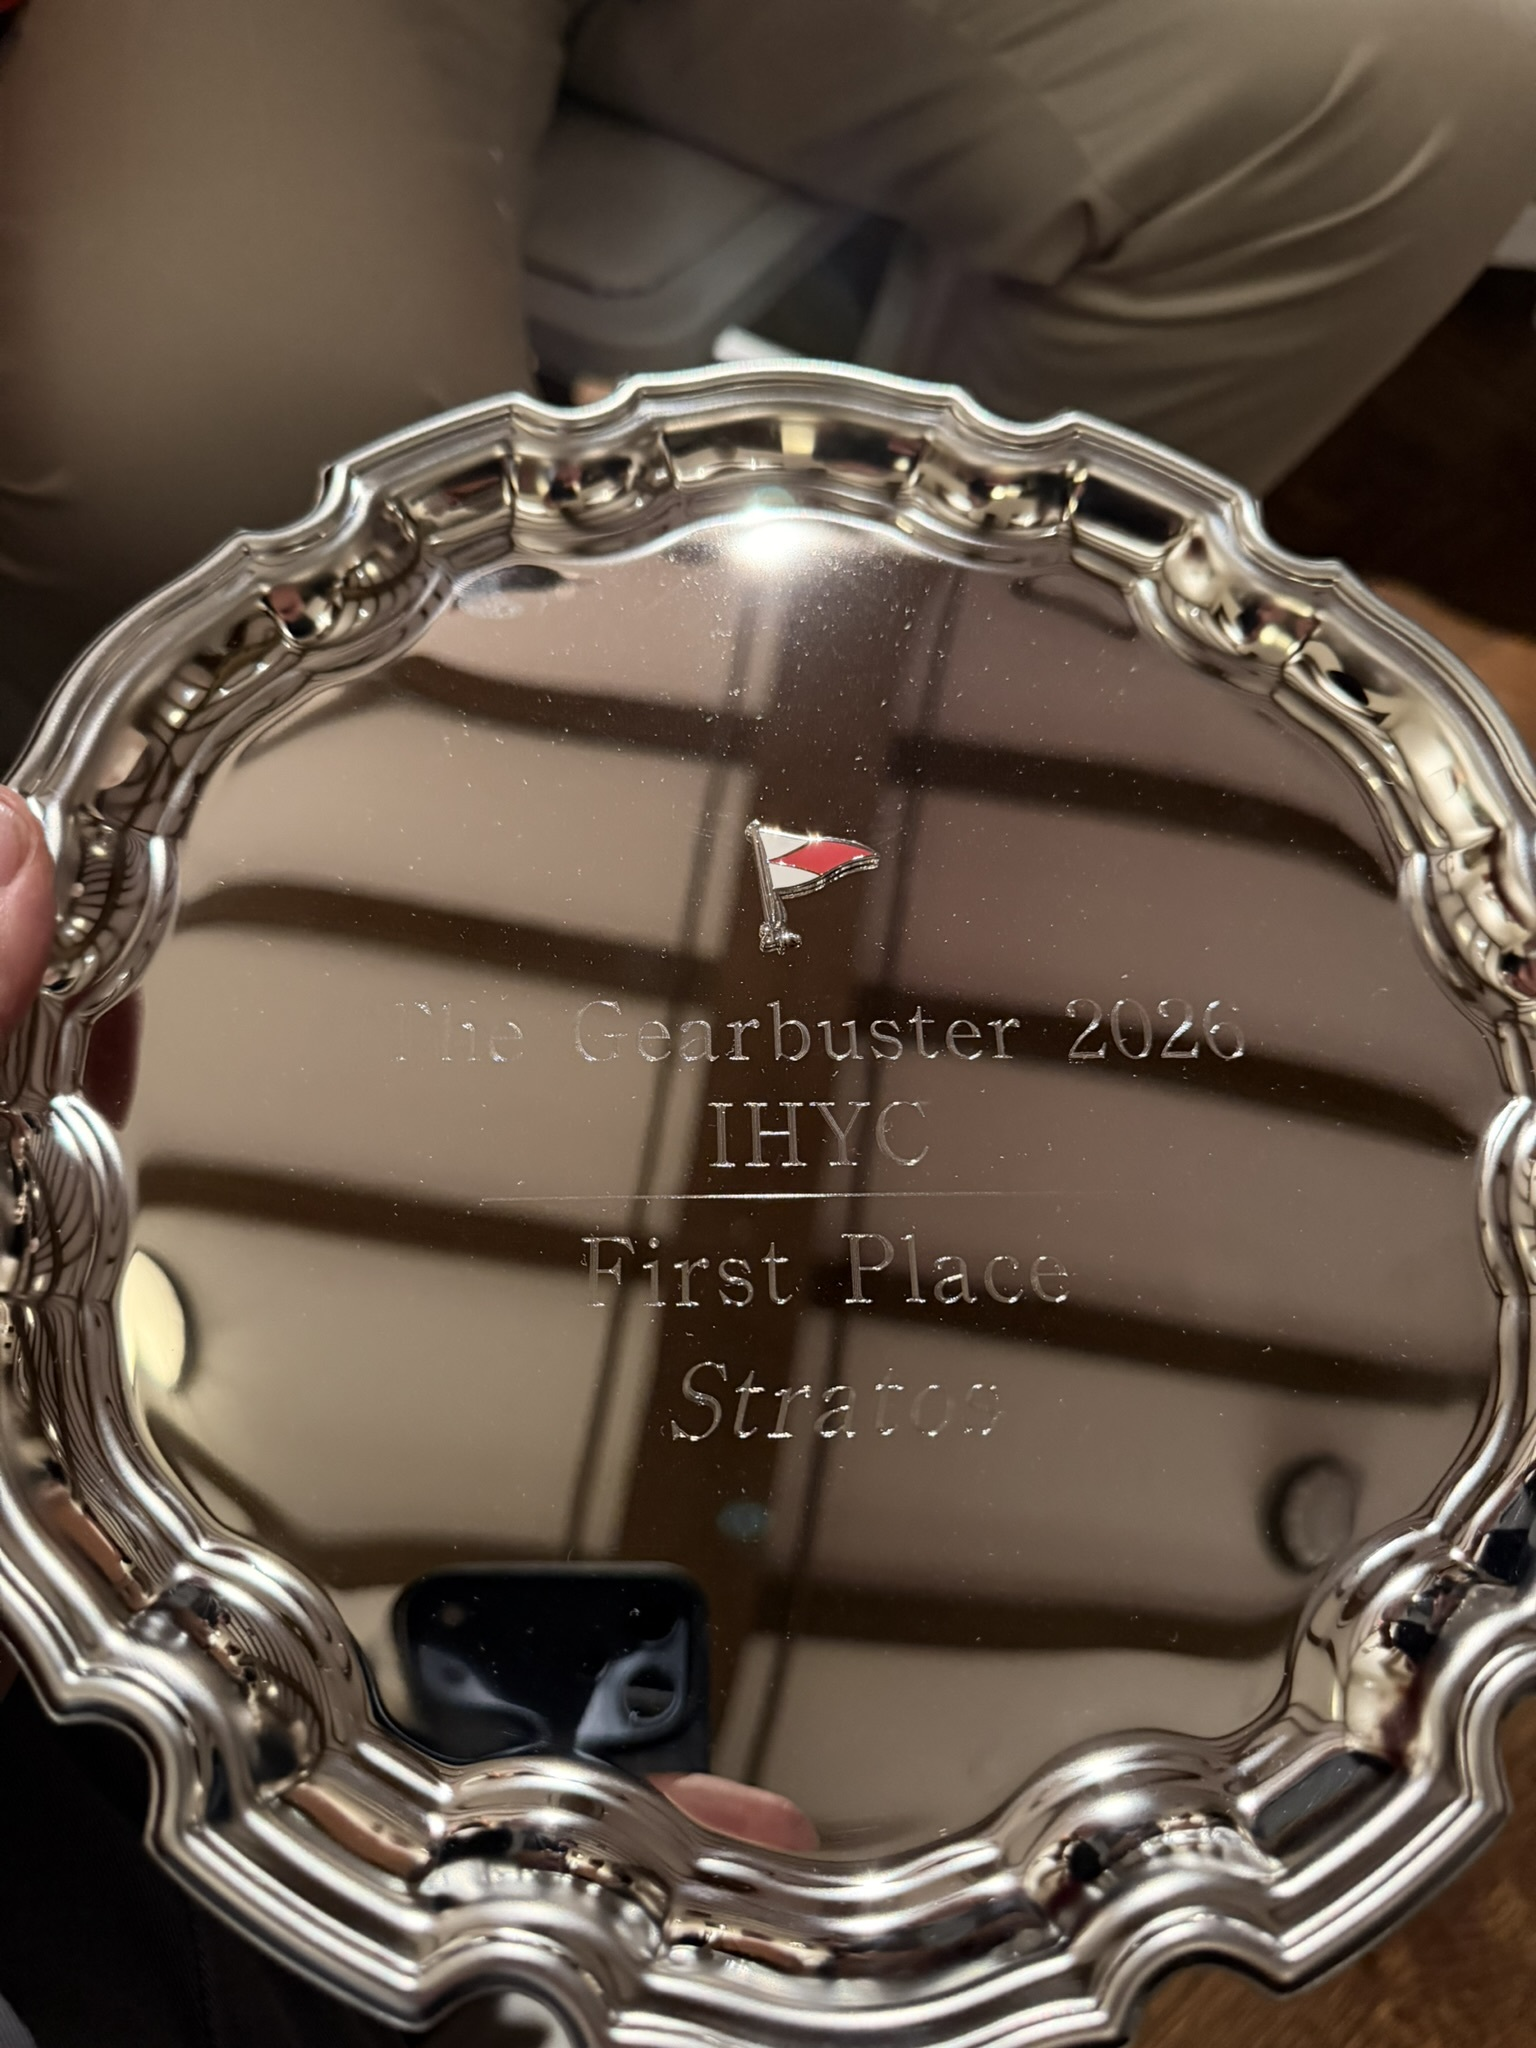
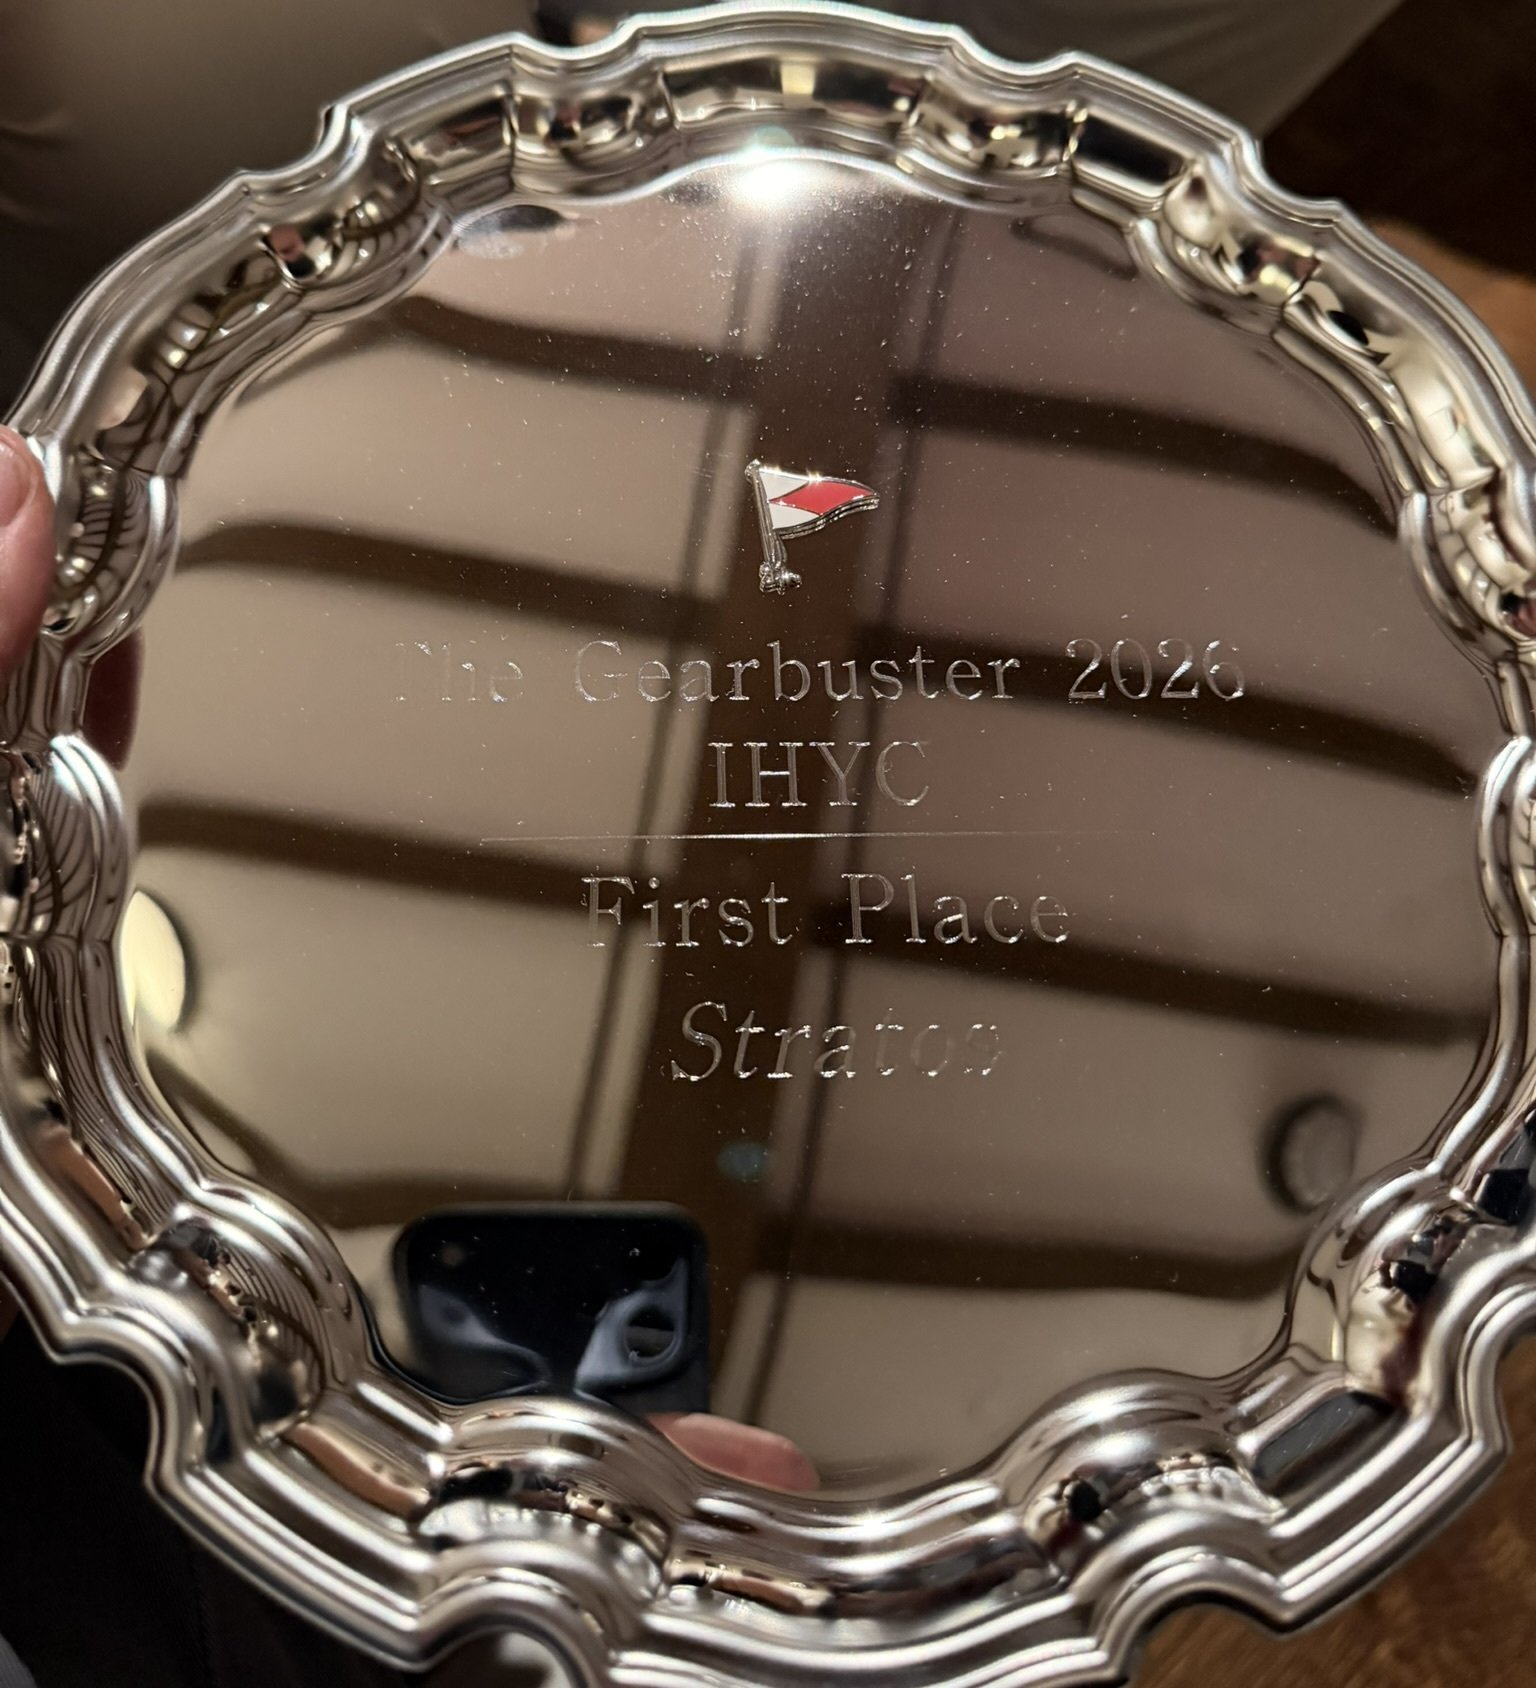
Fix trophy photo: crop and add inline to Gearbuster report

diff --git a/src/content/posts/2026-gearbuster.md b/src/content/posts/2026-gearbuster.md
@@ -12,6 +12,8 @@ heroImage: "../../assets/photos/2026/gearbuster/gearbuster-trophy.jpg"
 draft: false
 ---
 
+![The Gearbuster 2026 — First Place — Stratos](../../assets/photos/2026/gearbuster/gearbuster-trophy.jpg)
+
 When Steve Fisk arrived at Riverside Yacht Club on race morning, I greeted him with the encouraging news that there was a 50% chance the race would be cancelled. This is, admittedly, an unusual way to build a crew's enthusiasm for the last regatta of the season. Steve took it well.
 
 The forecast called for almost no wind. I had brought both the light-air jib and the windseeker — the latter being our fully battened foresail that holds its shape in conditions too light for a normal jib to care about. The windseeker had made its season debut at the Ida Lewis in August, where rigging it in the middle of the night, parked, was an experience we had no interest in repeating. This time it was ready before we left the dock.
